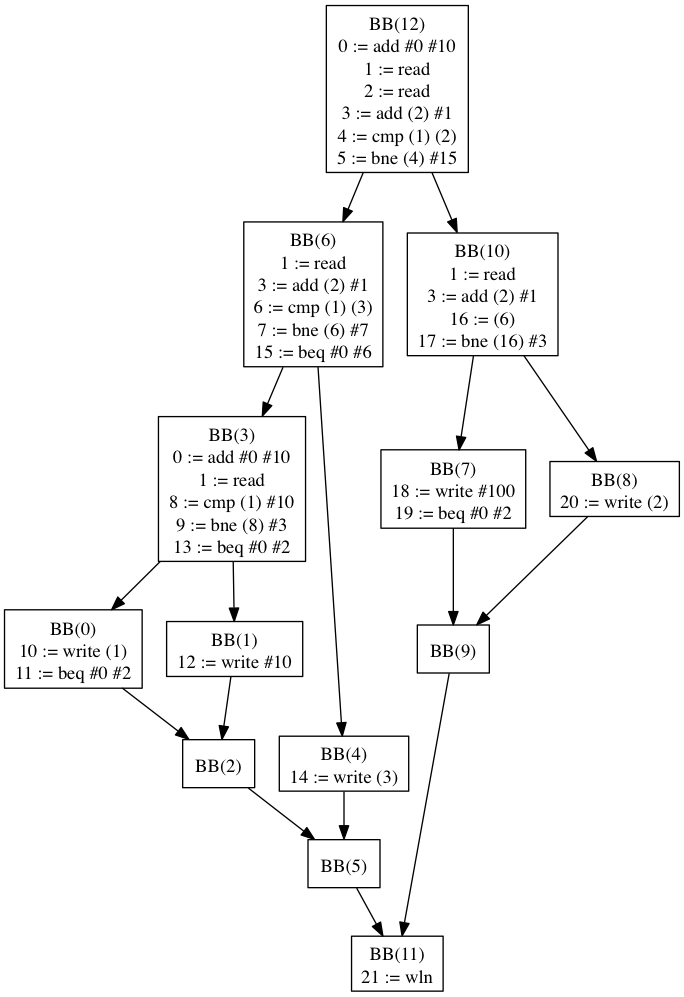
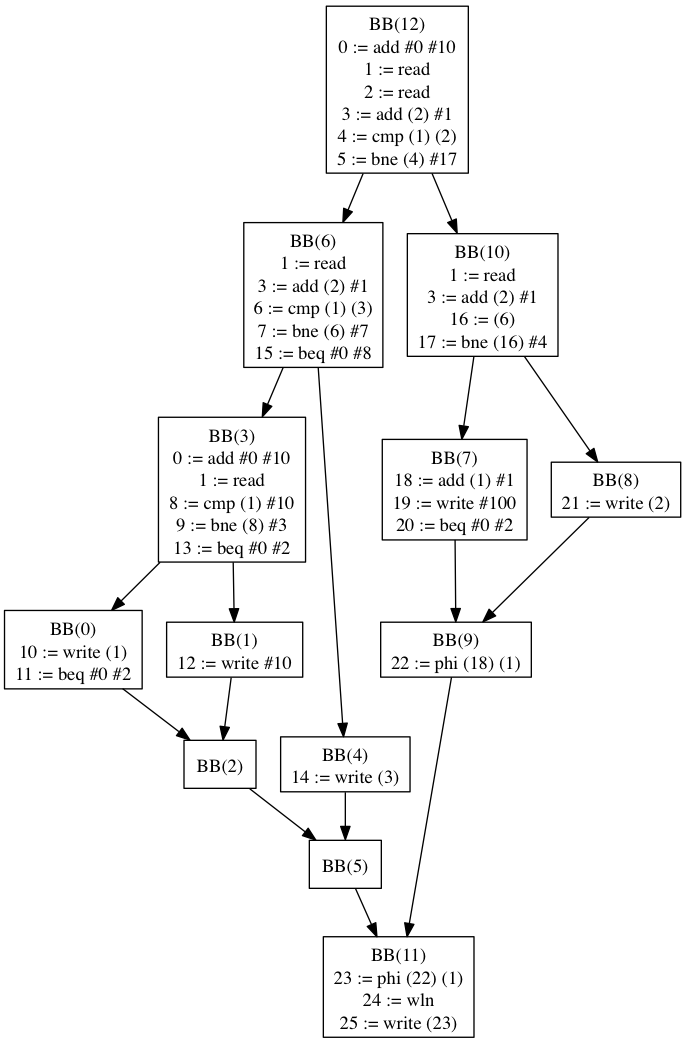
Added a simple PHI inside the code - the order of the entry paths is backwards though :-\

Changed region(s): [[0.0, 0.0, 1.0, 1.0], [0.2149, 0.4042, 0.2456, 0.4353]]

diff --git a/project/src/com/uci/cs241/pl241/frontend/PLParser.java b/project/src/com/uci/cs241/pl241/frontend/PLParser.java
@@ -712,21 +712,6 @@ public class PLParser
 			entry.joinNode = joinNode;
 			joinNode.parents.add(thenBlock);
 			
-//			if (thenBlock.joinNode != null)
-//			{
-//				thenBlock.joinNode.children.add(joinNode);
-//				entry.exitNode = entry.joinNode = joinNode;
-//				joinNode.parents.add(thenBlock.joinNode);
-//				thenBlock.joinNode.fixSpot();
-//			}
-//			else
-//			{
-//				thenBlock.children.add(joinNode);
-//				entry.exitNode = entry.joinNode = joinNode;
-//				joinNode.parents.add(thenBlock);
-//				thenBlock.fixSpot();
-//			}
-			
 			// Check for an else branch
 			int offset = 0;
 			PLIRBasicBlock elseBlock = null;
